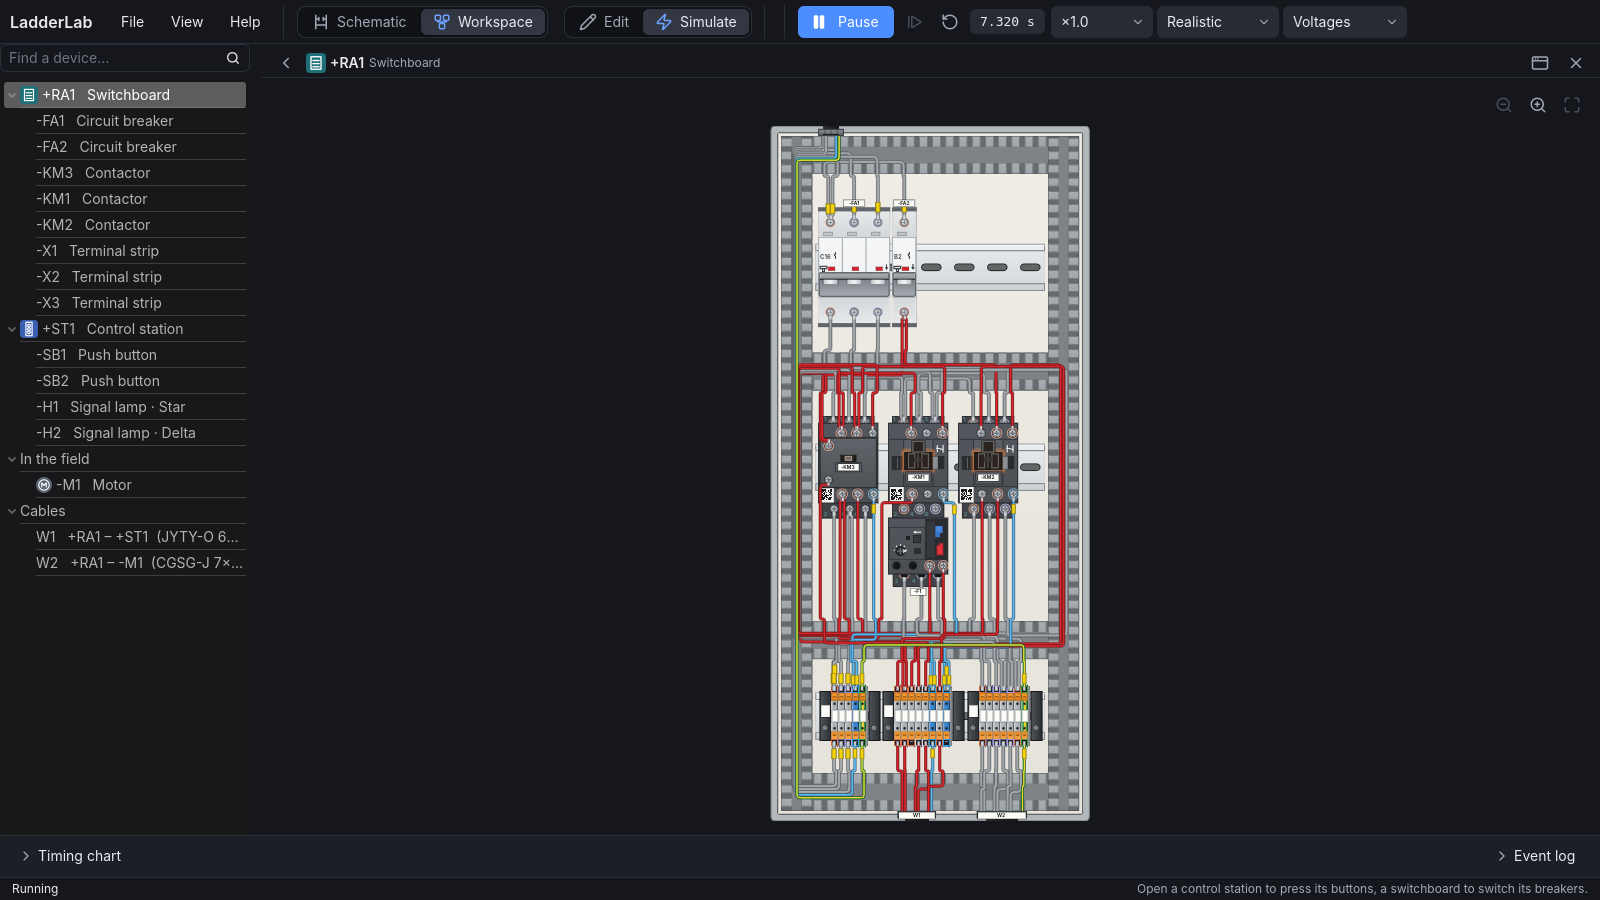
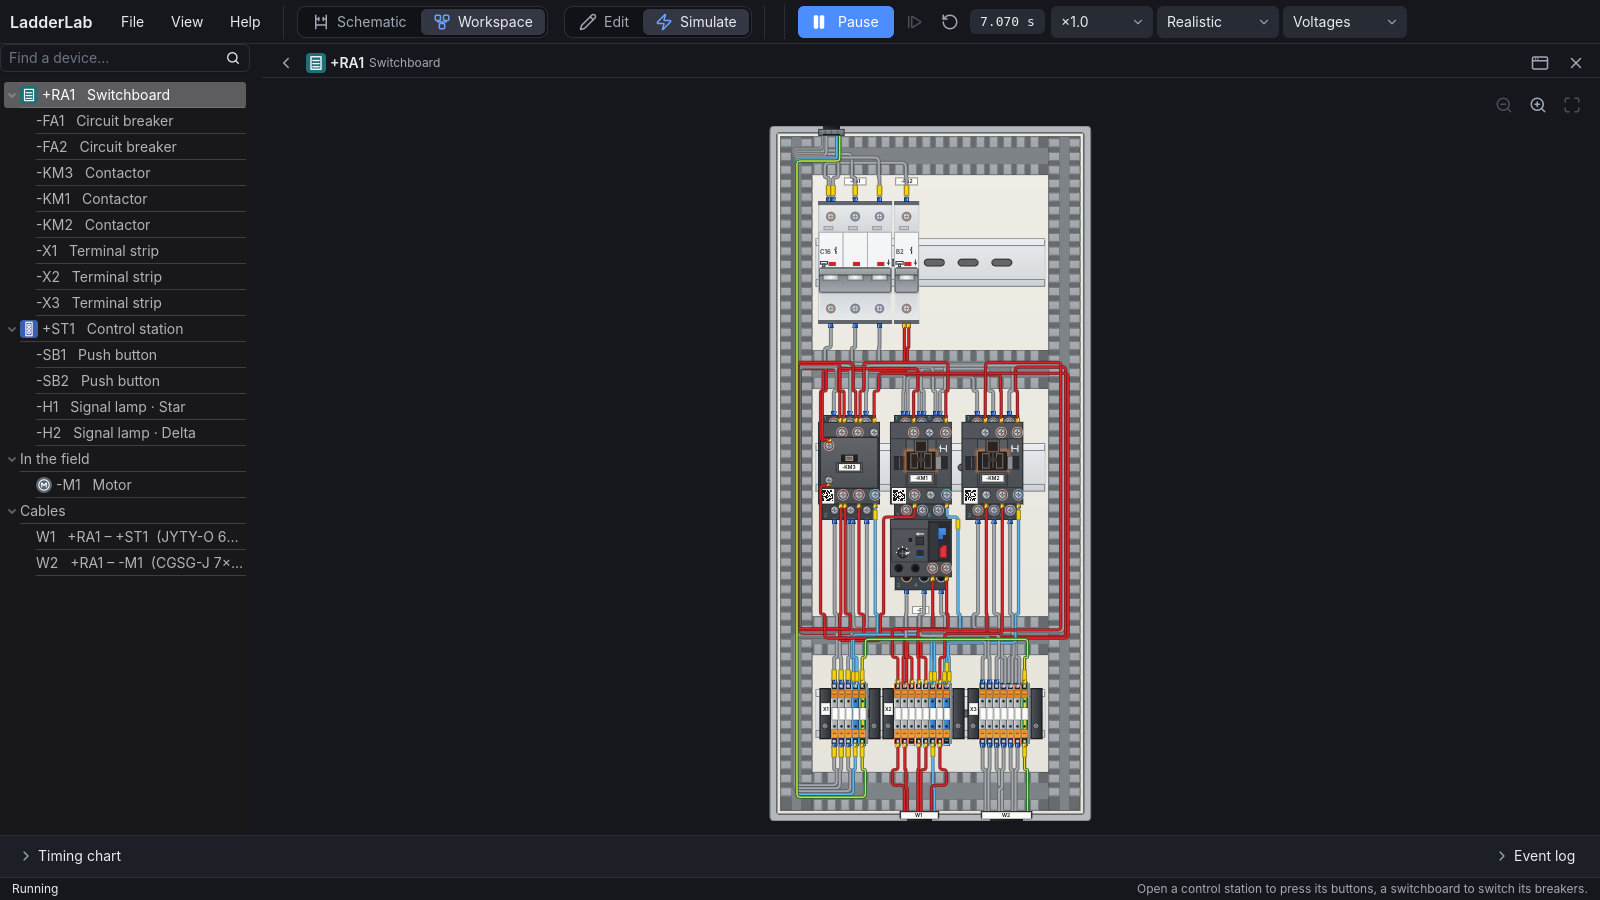
Every device's wires go in at its tier faces; labels on the plate
Time relays (their wire slots), plug-in relays, rectifiers, PLCs and VFDs
take their wires in at the face of each terminal's tier too; a
contactor's power outputs over its overload relay keep going in by the
screw. Device labels sit on the plate 15 mm over or under their device,
drawn under the wires, clear of the ferrules and sleeves.

Changed region(s): [[0.4688, 0.1244, 0.6875, 0.9022]]

diff --git a/docs/DEVELOPMENT.md b/docs/DEVELOPMENT.md
@@ -320,7 +320,15 @@ Architecture and conventions of the code base. Read this before changing the cod
   DC - pole, a rectifier's - too), grey = main power circuit (L2/L3 and the terminals of main
   contacts, overload relay
   heaters, 3~ motors, fuses and breakers of 2-4 poles), green-yellow = PE; wires go into the
-  top of strip terminals, wires near each other share the nearest slot; every wire carries a
+  top of strip terminals, wires near each other share the nearest slot; a wire to a device
+  terminal goes into the face of the terminal's tier, past the screw (CabinetParts.wire_entry:
+  the outer tiers' top or bottom face, the step where an inner tier begins, a time relay's wire
+  slots, a VFD's terminal recesses; at the screw for a fuse holder's deep opening and for a
+  contactor's power outputs over its overload relay), wires sharing such a terminal side by
+  side; every wire end has an insulated ferrule collar (CabinetParts.COLLAR, yellow on control,
+  blue on power wires), its metal showing only going into a strip terminal (wire "pins");
+  device labels sit on the plate CabinetLayout.LABEL_OFF over (or under) their device, drawn
+  with the place under the wires (a contactor's on its front); every wire carries a
   yellow marker sleeve at each terminal end with its wire number printed along it (bottom to
   top; the supply conductor's name "L1", "N", "PE" on a net without a number;
   CabinetWiring._marks), CabinetParts.MARKER_FROM from the end and before the bend into the

diff --git a/CHANGELOG.md b/CHANGELOG.md
@@ -37,6 +37,9 @@ What changed in each LadderLab version. Version numbers follow the rules in
   PE … on supply wires without a number); two wires in one terminal spread apart so both sleeves
   show, side by side or one above the other; the ducts sit further from the devices to leave
   room for them
+- Switchboard wires go into their terminals as on a real device: in at the face of the
+  terminal's tier past the screw, with insulated ferrule collars; device labels sit on the plate
+  clear of the wire ends
 
 ### Files and export
 - PLC programs can be exported to a file and imported into another PLC (PLC window)
